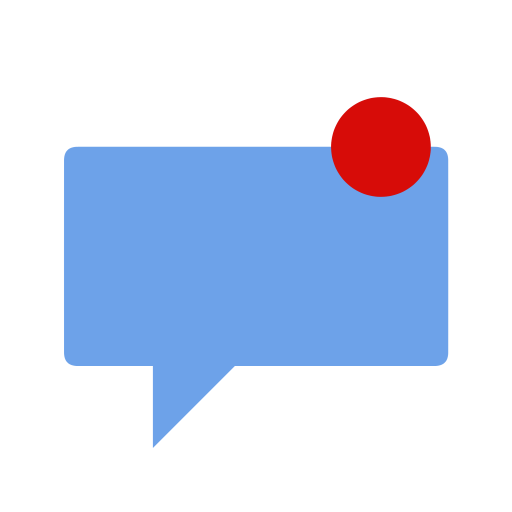
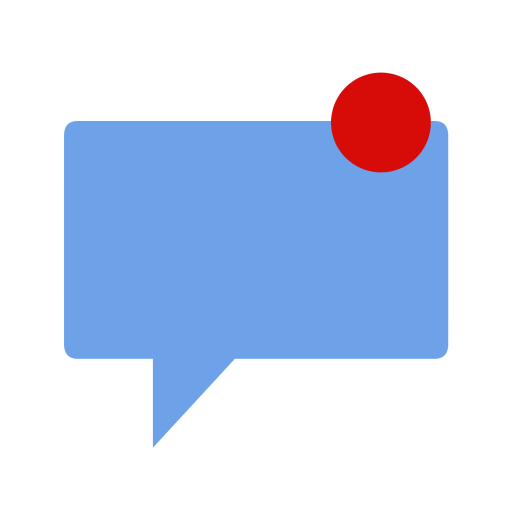
이미지수정
이미지 수정

Changed region(s): [[0.125, 0.125, 0.875, 0.4062], [0.3438, 0.6875, 0.875, 0.8438], [0.125, 0.6875, 0.3125, 0.7188]]

diff --git a/src/pageDir/navBar.js b/src/pageDir/navBar.js
@@ -2,11 +2,14 @@ import {useNavigate, Link} from 'react-router-dom'
 import styles from '../cssDir/navBar.module.css';
 import noMessage from '../imgs/noMessage.png';
 import noMessageHover from '../imgs/noMessage_hover.png';
+import Message from '../imgs/message.png';
+import MessageHover from '../imgs/message_hover.png';
 import message from '../imgs/message.png';
 import React, {useEffect, useState} from 'react';
 
 const NavBar = (props) => {
     const [isLogin, setIsLogin] = useState(false);
+    const [messageList, setMessageList] = useState([4]);
     const movePage = useNavigate()
 
     useEffect(() => {
@@ -15,6 +18,9 @@ const NavBar = (props) => {
     
     const goHome = () => {
         movePage('/')
+    }
+    const goMessage = () => {
+        movePage('/message')
     }
     const goLogin = () =>{
         if(isLogin){
@@ -51,10 +57,17 @@ const NavBar = (props) => {
                 <ul className={styles.navList}>
                     {isLogin ? <li className={styles.navListItem}>
                         <div className={styles.navListItemText}>
-                            <div className={styles.imgBox}>
-                                <img src={noMessage} width={60} height={80} className={styles.noMessageImg}></img>
-                                <img src={noMessageHover} width={60} height={80} className={styles.noMessageHoverImg}></img>
-                            </div>
+                                {messageList&&Array.isArray(messageList)&&messageList.length > 0 ? 
+                                <div className={styles.imgBox} onClick={goMessage}>
+                                <img src={Message} width={60} height={60} className={styles.noMessageImg}></img>
+                                <img src={MessageHover} width={60} height={60} className={styles.noMessageHoverImg}></img>
+                                </div>
+                                :
+                                <div className={styles.imgBox} onClick={goMessage}>
+                                <img src={noMessage} width={60} height={60} className={styles.noMessageImg}></img>
+                                <img src={noMessageHover} width={60} height={60} className={styles.noMessageHoverImg}></img>
+                                </div>
+                                }
                         </div>
                     </li> : <></>}
                     {isLogin ? <li className={styles.navListItem}>

diff --git a/public/index.html b/public/index.html
@@ -2,14 +2,14 @@
 <html lang="en">
   <head>
     <meta charset="utf-8" />
-    <link rel="icon" href="%PUBLIC_URL%/favicon.ico" />
+    <link rel="icon" href="%PUBLIC_URL%/logo256_256.ico" />
     <meta name="viewport" content="width=device-width, initial-scale=1" />
     <meta name="theme-color" content="#000000" />
     <meta
       name="description"
       content="Web site created using create-react-app"
     />
-    <link rel="apple-touch-icon" href="%PUBLIC_URL%/logo192.png" />
+    <link rel="apple-touch-icon" href="%PUBLIC_URL%/logo256_256.png" />
     <!--
       manifest.json provides metadata used when your web app is installed on a
       user's mobile device or desktop. See https://developers.google.com/web/fundamentals/web-app-manifest/
@@ -24,7 +24,7 @@
       work correctly both with client-side routing and a non-root public URL.
       Learn how to configure a non-root public URL by running `npm run build`.
     -->
-    <title>React App</title>
+    <title>블랙프라이데이</title>
   </head>
   <body>
     <noscript>You need to enable JavaScript to run this app.</noscript>

diff --git a/src/App.css b/src/App.css
@@ -36,3 +36,16 @@
     transform: rotate(360deg);
   }
 }
+
+::-webkit-scrollbar{
+  width: 3px;
+  height: 3px;
+}
+::-webkit-scrollbar-thumb{
+  background-color: rgb(109,162, 233);
+  border-radius: 100px;
+}
+::-webkit-scrollbar-track{
+  background-color: transparent;
+  display: none;
+}

diff --git a/src/cssDir/navBar.module.css b/src/cssDir/navBar.module.css
@@ -106,9 +106,12 @@
 }
 .imgBox {
     width: 60px;
-    height: 80px;
+    height: 60px;
     margin: 0px auto;
-    position: relative
+    position: relative;
+    display: flex;
+    flex-direction: column;
+    justify-content: center;
 }
 .noMessageHoverImg {
     position: absolute;
